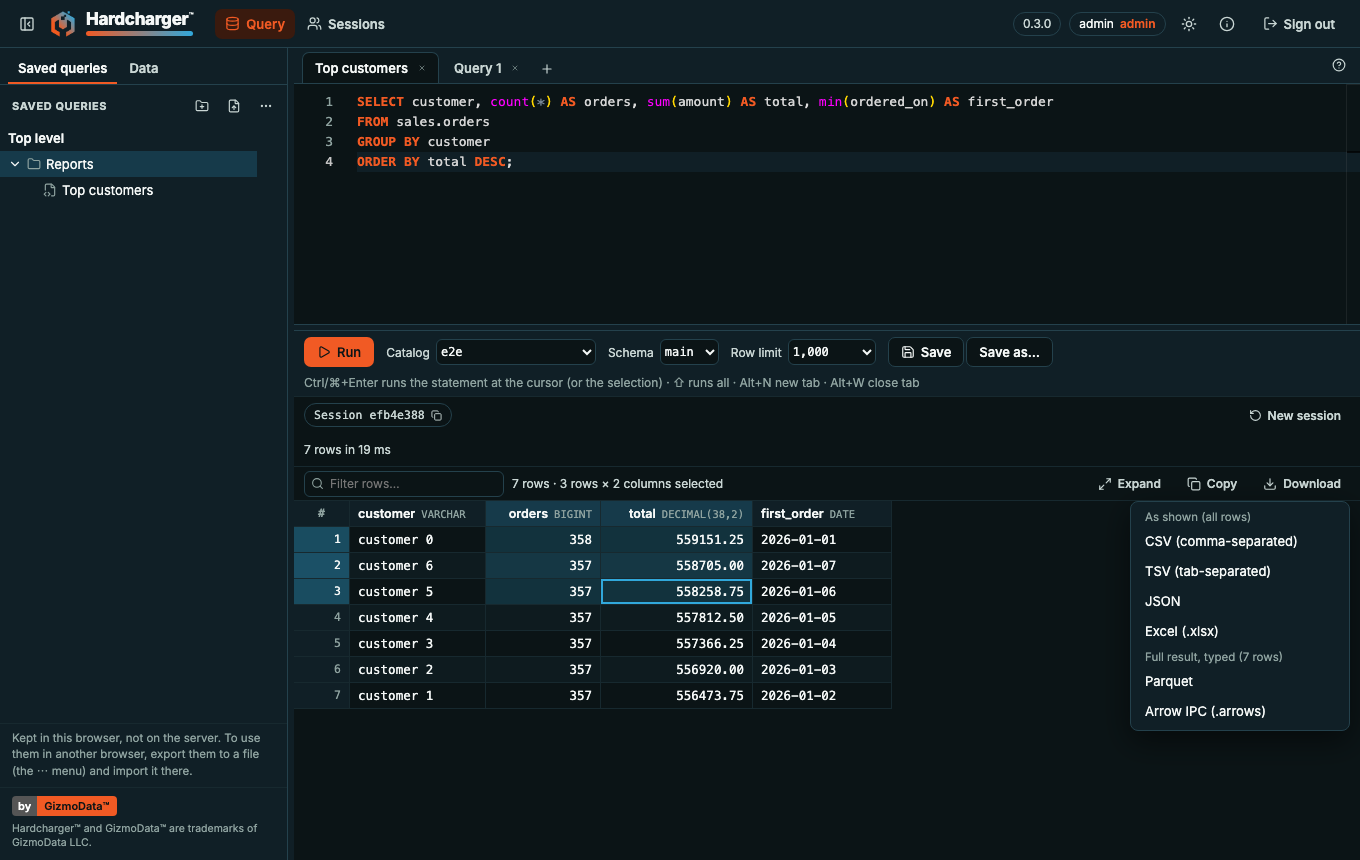
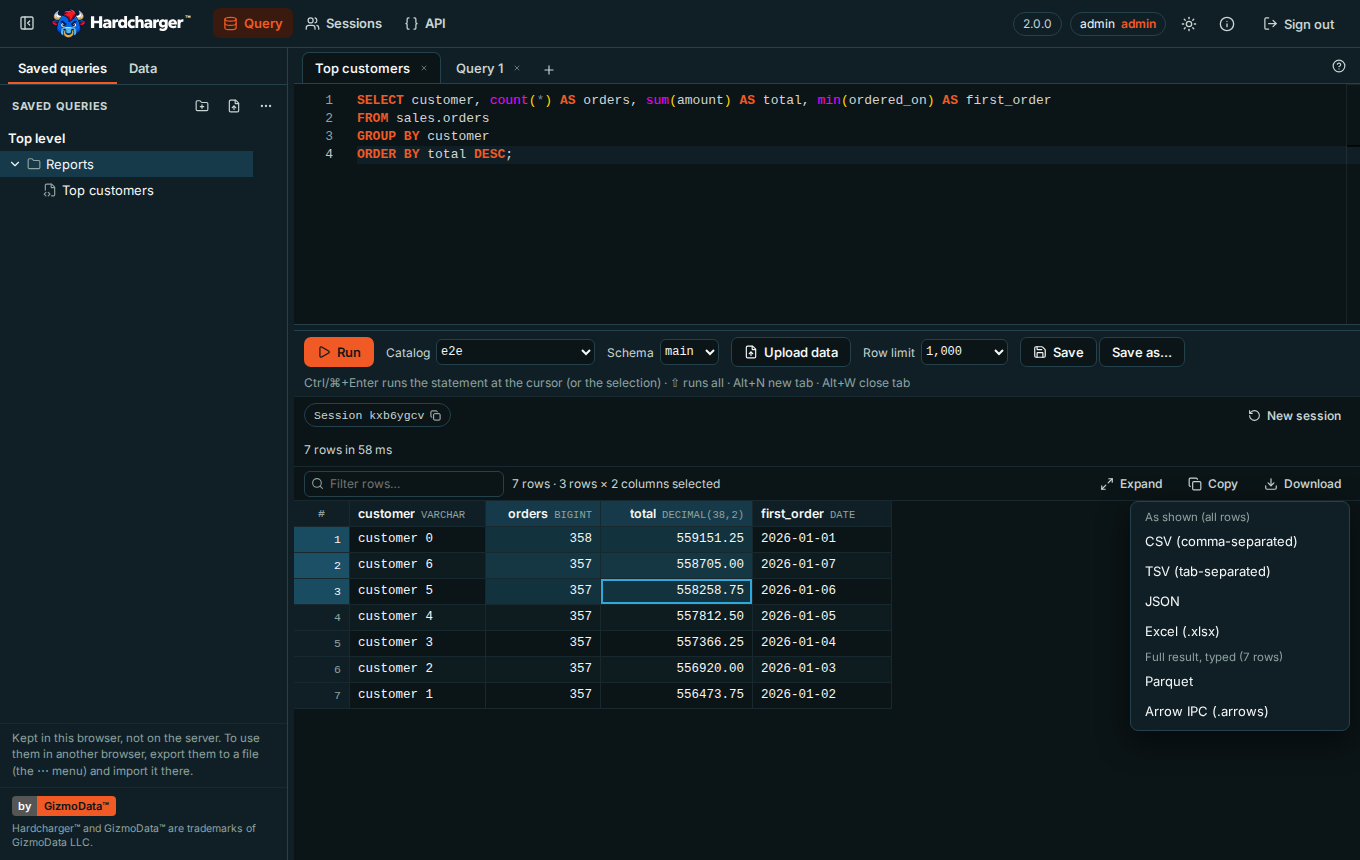
Refresh all documentation screenshots from the 2.0.0 release

diff --git a/CHANGELOG.md b/CHANGELOG.md
@@ -8,6 +8,8 @@ All notable changes to the Hardcharger documentation are recorded here. The form
 
 ## [2.0.0] - 2026-10-21
 
+- Refresh every Web UI screenshot from the signed 2.0.0 release test artifacts, including sign-in, SQL results, saved queries, API requests and Excel uploads.
+
 ### Fixed
 
 - Match the CLI's current TLS hint and explain that password credentials cannot inspect a
